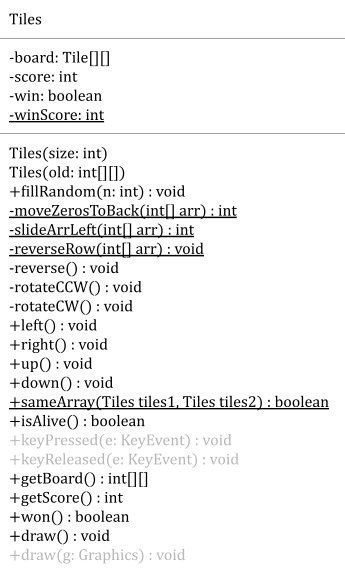
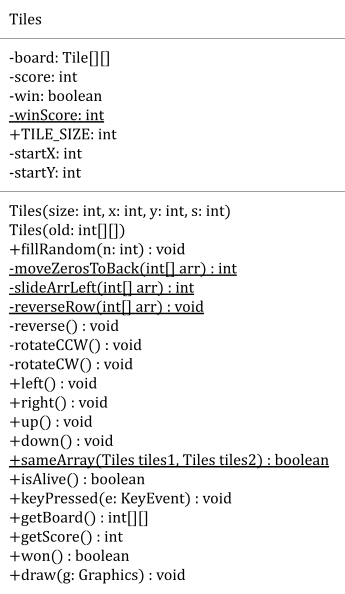
Alpha program

Changed region(s): [[0.0, 0.0296, 1.0, 1.0], [0.029, 0.0, 0.058, 0.0296]]

diff --git a/GamePanel.java b/GamePanel.java
@@ -16,33 +16,26 @@ public class GamePanel extends JPanel implements Runnable, KeyListener {
     // Variable Declaration
 
     // dimensions of window
-    public static final int GAME_WIDTH = 600;
-    public static final int GAME_HEIGHT = 600;
-
-    int startX = 20;
-    int startY = 160;
+    private static final int GAME_WIDTH = 600;
+    private static final int GAME_HEIGHT = 600;
 
     private int BOARD_SIZE = 4;
 
-    public Thread gameThread;
-    public Image image;
-    public Graphics graphics;
+    private Thread gameThread;
+    private Image image;
+    private Graphics graphics;
 
-    public Tiles tiles;
-    public Text timer;
-    public Text score;
-    public Text highscore;
+    private Tiles tiles;
 
     // integer to store game state
     // 0 = menu
     // 1 = game
     // 2 = end
-    int state = 1;
+    private int state = 1;
 
     public GamePanel() {
-        tiles = new Tiles(BOARD_SIZE, startX, startY, GAME_WIDTH / (BOARD_SIZE + 2) * 9 / 10);
-        timer = new Text(startX + tiles.TILE_SIZE * 10 / 9 * BOARD_SIZE + tiles.TILE_SIZE / 9, startY, 200,
-                tiles.TILE_SIZE / 2, 10, new Color(52, 44, 37));
+        tiles = new Tiles(BOARD_SIZE, 100, 160, GAME_WIDTH / (BOARD_SIZE + 2) * 9 / 10);
+
         this.setFocusable(true); // make everything in this class appear on the screen
         this.addKeyListener(this); // start listening for keyboard input
         this.setPreferredSize(new Dimension(GAME_WIDTH, GAME_HEIGHT));
@@ -65,12 +58,15 @@ public class GamePanel extends JPanel implements Runnable, KeyListener {
     }
 
     // call the draw methods in each class to update positions as things move
-    public void draw(Graphics g) {
+    private void draw(Graphics g) {
         if (state == 1)
             drawGame(g);
+        else
+            drawEnd(g);
     }
 
-    public void drawCenteredText(Graphics g, String s, int x, int y) {
+    // draws centered text based on string and (x,y) center point
+    private void drawCenteredText(Graphics g, String s, int x, int y) {
         int w = (int) g.getFontMetrics().getStringBounds(s, g).getWidth();
         int h = (int) g.getFontMetrics().getStringBounds(s, g).getHeight();
         int newX = (x - w) / 2;
@@ -78,11 +74,25 @@ public class GamePanel extends JPanel implements Runnable, KeyListener {
         g.drawString(s, newX, newY);
     }
 
-    public void drawGame(Graphics g) {
+    private void drawGame(Graphics g) {
         g.setFont(new Font("Impact", Font.PLAIN, 96));
         drawCenteredText(g, "2048", GAME_WIDTH, 360);
         tiles.draw(g);
-        timer.draw(g);
+    }
+
+    public void drawEnd(Graphics g) {
+        g.setFont(new Font("Impact", Font.PLAIN, 96));
+        drawCenteredText(g, "End", GAME_WIDTH, 360);
+        g.setFont(new Font("Impact", Font.PLAIN, 32));
+
+        // Basic end conditions
+        if (tiles.won()) // user has won
+            drawCenteredText(g, "Win", GAME_WIDTH, 500);
+
+        else // user has lost
+            drawCenteredText(g, "Dead", GAME_WIDTH, 500);
+
+        drawCenteredText(g, "Score " + tiles.getScore(), GAME_WIDTH, 600); // score
     }
 
     // run() method is what makes the game continue running without end. It calls
@@ -102,8 +112,9 @@ public class GamePanel extends JPanel implements Runnable, KeyListener {
     }
 
     // Infinite game loop
-    public void gameScreen(long lastTime, double amountOfTicks, double ns, double delta, long now) {
+    private void gameScreen(long lastTime, double amountOfTicks, double ns, double delta, long now) {
         boolean responded = false; // has user responded (should new board be printed?)
+
         boolean asked = false; // user has won, have they been asked whether they want to continue or quit?
         Tiles tmpBoard; // temporary board to verify if user has moved or not (copy and compare array)
 
@@ -111,7 +122,7 @@ public class GamePanel extends JPanel implements Runnable, KeyListener {
         tiles.fillRandom(2);
 
         // Main game loop
-        while (state > 0) {
+        while (state == 1) {
             now = System.nanoTime();
             delta = delta + (now - lastTime) / ns;
             lastTime = now;
@@ -139,27 +150,15 @@ public class GamePanel extends JPanel implements Runnable, KeyListener {
             repaint();
             delta--;
         }
-
-        System.out.println("ok");
-        // Basic end conditions
-        if (tiles.won()) // user has won
-            System.out.println("WIN");
-        else // user has lost
-            System.out.println("DEAD");
-        System.out.println("SCORE " + tiles.getScore()); // score
     }
 
-    // if a key is pressed, we'll send it over to the PlayerBall class for
-    // processing
+    // if a key is pressed, send to tiles class to process
+    @Override
     public void keyPressed(KeyEvent e) {
-        if (e.getKeyCode() == KeyEvent.VK_Q)
-            state = 2;
-        else
-            tiles.keyPressed(e);
+        tiles.keyPressed(e);
     }
 
-    // left empty because we don't need it; must be here because it is required to
-    // be overridded by the KeyListener interface
+    @Override
     public void keyTyped(KeyEvent e) {
 
     }

diff --git a/Tile.java b/Tile.java
@@ -1,14 +1,16 @@
+/*
+ * Author: Grace Pu
+ * Date: May 30
+ * Description: 
+ * Tiles class defines behaviours for the tile (specifically the draw method).
+ * Part of the ALPHA PROGRAM of the ICS4U final culminating project.
+ */
 
-/* PlayerBall class defines behaviours for the player-controlled ball  
-
-child of Rectangle because that makes it easy to draw and check for collision
-
-In 2D GUI, basically everything is a rectangle even if it doesn't look like it!
-*/
 import java.awt.*;
 
-public class Tile extends Rectangle {
+public class Tile {
 
+    // Colours of tiles array
     public static final Color[] colours = {
             new Color(205, 193, 180),
             new Color(238, 228, 218),
@@ -25,11 +27,12 @@ public class Tile extends Rectangle {
             new Color(60, 58, 50)
     };
 
-    // constructor creates ball at given location with given dimensions
+    // constructor, not actually used since draw method is static
     public Tile() {
 
     }
 
+    // draws centered text
     public static void drawCenteredText(Graphics g, String s, int x, int y) {
         int w = (int) g.getFontMetrics().getStringBounds(s, g).getWidth();
         int h = (int) g.getFontMetrics().getStringBounds(s, g).getHeight();
@@ -40,7 +43,7 @@ public class Tile extends Rectangle {
     }
 
     // called frequently from the GamePanel class
-    // draws the current location of the ball to the screen
+    // draws the tile to the screen
     public static void draw(Graphics g, int n, int x, int y, int SIZE) {
         g.setColor(colours[(n == 0) ? 0 : Math.min(12, (int) (Math.log10(n) / Math.log10(2)))]);
         g.fillRoundRect(x, y, SIZE, SIZE, SIZE / 3, SIZE / 3);

diff --git a/Tiles.java b/Tiles.java
@@ -18,8 +18,8 @@ public class Tiles {
 
     public int TILE_SIZE;
 
-    int startX;
-    int startY;
+    private int startX;
+    private int startY;
 
     // Main constructor
     public Tiles(int size, int x, int y, int s) {
@@ -246,9 +246,7 @@ public class Tiles {
     }
 
     // called from GamePanel when any keyboard input is detected
-    // updates the direction of the ball based on user input
-    // if the keyboard input isn't any of the options (d, a, w, s), then nothing
-    // happens
+    // slides the tiles in the direction if arrow keys pressed
     public void keyPressed(KeyEvent e) {
         if (e.getKeyCode() == KeyEvent.VK_LEFT)
             left();
@@ -261,7 +259,7 @@ public class Tiles {
     }
 
     // called frequently from the GamePanel class
-    // draws the current location of the ball to the screen
+    // draws tiles to the screen
     public void draw(Graphics g) {
         g.setColor(new Color(52, 44, 37));
         g.fillRoundRect(startX, startY, board[0].length * TILE_SIZE * 11 / 10 + TILE_SIZE / 10,

diff --git a/README.md b/README.md
@@ -10,5 +10,4 @@ Double click the batch file [runMe.bat](runMe.bat).
 
 ## Gameplay
 
-To move, enter one of the following characters: l, r, u, d. These correspond to sliding to the left, right, up, and down, respectively. Invalid moves will be ignored (no feedback since this is only ALPHA program).
-To quit, enter q.
+To move, use the arrow keys which correspond to sliding to the left, right, up, and down, respectively. Invalid moves will be ignored (no feedback since this is only ALPHA program).
